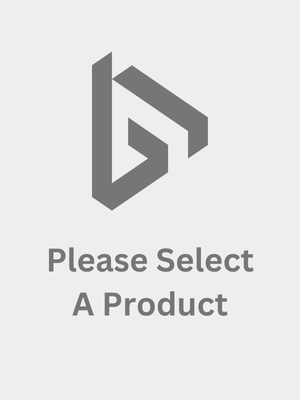
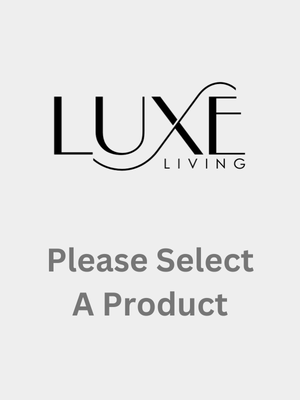
my first commit

Changed region(s): [[0.18, 0.12, 0.84, 0.54], [0.72, 0.18, 0.75, 0.21]]

diff --git a/productDetail.html b/productDetail.html
@@ -29,14 +29,8 @@
     <!----- Light Box CSS ----->
     <link rel="stylesheet" href="src/css/lightbox.min.css" />
 
-
-    
-
-
     <!-- Custom CSS -->
     <link rel="stylesheet" href="src/css/style.css" />
-
-
   </head>
 
   <body>
@@ -55,7 +49,7 @@
         <div class="container pt-2 pb-2">
           <!-- Logo -->
           <a class="navbar-brand" href="index.html"
-            ><img src="img/Logo/logo.svg" height="50" alt=""
+            ><img src="img/Logo/logo.png" height="70" alt=""
           /></a>
 
           <div class="justify-content-end d-flex">
@@ -96,7 +90,7 @@
             <div class="offcanvas-header border-bottom background-white">
               <h5 class="offcanvas-title" id="offcanvasNavbarLabel">
                 <a class="navbar-brand" href="index.html"
-                  ><img src="img/Logo/logo.svg" width="" height="70" alt=""
+                  ><img src="img/Logo/logo.png" width="" height="70" alt=""
                 /></a>
               </h5>
               <button
@@ -1040,7 +1034,6 @@
                 type="submit"
                 class="my-4 btn btn-view"
                 placeholder="submit"
-                
               />
             </form>
           </div>
@@ -1070,7 +1063,7 @@
         <div class="row">
           <div class="col-lg-3 col-sm-6 mb-5 mb-lg-0">
             <img
-              src="img/Logo/logo-white.svg"
+              src="img/Logo/logo-white.png"
               height="55px"
               alt="Durable Furniture"
               srcset=""
@@ -1177,7 +1170,7 @@
 
   <!-- Sweet Alert Js -->
   <script src="https://cdn.jsdelivr.net/npm/sweetalert2@11"></script>
- 
+
   <!----- Custom JS ----->
   <script src="src/js/Script.js"></script>
   <script src="src/js/SingleProduct.js"></script>

diff --git a/index.html b/index.html
@@ -5,11 +5,11 @@
     <meta name="viewport" content="width=device-width, initial-scale=1.0" />
     <title>Home</title>
 
-    <link
+    <!-- <link
       rel="shortcut icon"
       href="img/Logo/logo-favicon.svg"
       type="image/x-icon"
-    />
+    /> -->
 
     <!-- SwiperJS CSS  -->
     <link
@@ -48,7 +48,7 @@
         <div class="container pt-2 pb-2">
           <!-- Logo -->
           <a class="navbar-brand" href="index.html"
-            ><img src="img/Logo/logo.svg" height="50" alt=""
+            ><img src="img/Logo/logo.png" height="70"  alt=""
           /></a>
 
           <div class="justify-content-end d-flex">
@@ -89,7 +89,7 @@
             <div class="offcanvas-header border-bottom background-white">
               <h5 class="offcanvas-title" id="offcanvasNavbarLabel">
                 <a class="navbar-brand" href="index.html"
-                  ><img src="img/Logo/logo.svg" width="" height="70" alt=""
+                  ><img src="img/Logo/logo.png" width="" height="70" alt=""
                 /></a>
               </h5>
               <button
@@ -1658,7 +1658,7 @@
         <div class="row">
           <div class="col-lg-3 col-sm-6 mb-5 mb-lg-0">
             <img
-              src="img/Logo/logo-white.svg"
+              src="img/Logo/logo-white.png"
               height="55px"
               alt="Durable Furniture"
               srcset=""

diff --git a/about.html b/about.html
@@ -48,7 +48,7 @@
         <div class="container pt-2 pb-2">
           <!-- Logo -->
           <a class="navbar-brand" href="index.html"
-            ><img src="img/Logo/logo.svg" height="50" alt=""
+            ><img src="img/Logo/logo.png" height="70" alt=""
           /></a>
 
           <div class="justify-content-end d-flex">
@@ -89,7 +89,7 @@
             <div class="offcanvas-header border-bottom background-white">
               <h5 class="offcanvas-title" id="offcanvasNavbarLabel">
                 <a class="navbar-brand" href="index.html"
-                  ><img src="img/Logo/logo.svg" width="" height="70" alt=""
+                  ><img src="img/Logo/logo.png" width="" height="70" alt=""
                 /></a>
               </h5>
               <button
@@ -1328,7 +1328,7 @@
         <div class="row">
           <div class="col-lg-3 col-sm-6 mb-5 mb-lg-0">
             <img
-              src="img/Logo/logo-white.svg"
+              src="img/Logo/logo-white.png"
               height="55px"
               alt="Durable Furniture"
               srcset=""

diff --git a/compare.html b/compare.html
@@ -42,7 +42,7 @@
         <div class="container pt-2 pb-2">
           <!-- Logo -->
           <a class="navbar-brand" href="index.html"
-            ><img src="img/Logo/logo.svg" height="50" alt=""
+            ><img src="img/Logo/logo.png" height="70" alt=""
           /></a>
 
           <div class="justify-content-end d-flex">
@@ -83,7 +83,7 @@
             <div class="offcanvas-header border-bottom background-white">
               <h5 class="offcanvas-title" id="offcanvasNavbarLabel">
                 <a class="navbar-brand" href="index.html"
-                  ><img src="img/Logo/logo.svg" width="" height="70" alt=""
+                  ><img src="img/Logo/logo.png" width="" height="70" alt=""
                 /></a>
               </h5>
               <button
@@ -1018,7 +1018,7 @@
         <div class="row">
           <div class="col-lg-3 col-sm-6 mb-5 mb-lg-0">
             <img
-              src="img/Logo/logo-white.svg"
+              src="img/Logo/logo-white.png"
               height="55px"
               alt="Durable Furniture"
               srcset=""

diff --git a/contact.html b/contact.html
@@ -39,7 +39,7 @@
         <div class="container pt-2 pb-2">
           <!-- Logo -->
           <a class="navbar-brand" href="index.html"
-            ><img src="img/Logo/logo.svg" height="50" alt=""
+            ><img src="img/Logo/logo.png" height="70" alt=""
           /></a>
 
           <div class="justify-content-end d-flex">
@@ -80,7 +80,7 @@
             <div class="offcanvas-header border-bottom background-white">
               <h5 class="offcanvas-title" id="offcanvasNavbarLabel">
                 <a class="navbar-brand" href="index.html"
-                  ><img src="img/Logo/logo.svg" width="" height="70" alt=""
+                  ><img src="img/Logo/logo.png" width="" height="70" alt=""
                 /></a>
               </h5>
               <button
@@ -1048,7 +1048,7 @@
         <div class="row">
           <div class="col-lg-3 col-sm-6 mb-5 mb-lg-0">
             <img
-              src="img/Logo/logo-white.svg"
+              src="img/Logo/logo-white.png"
               height="55px"
               alt="Durable Furniture"
               srcset=""

diff --git a/shop.html b/shop.html
@@ -43,7 +43,7 @@
         <div class="container pt-2 pb-2">
           <!-- Logo -->
           <a class="navbar-brand" href="index.html"
-            ><img src="img/Logo/logo.svg" height="50" alt=""
+            ><img src="img/Logo/logo.png" height="70" alt=""
           /></a>
 
           <div class="justify-content-end d-flex">
@@ -84,7 +84,7 @@
             <div class="offcanvas-header border-bottom background-white">
               <h5 class="offcanvas-title" id="offcanvasNavbarLabel">
                 <a class="navbar-brand" href="index.html"
-                  ><img src="img/Logo/logo.svg" width="" height="70" alt=""
+                  ><img src="img/Logo/logo.png" width="" height="70" alt=""
                 /></a>
               </h5>
               <button
@@ -1031,7 +1031,7 @@
         <div class="row">
           <div class="col-lg-3 col-sm-6 mb-5 mb-lg-0">
             <img
-              src="img/Logo/logo-white.svg"
+              src="img/Logo/logo-white.png"
               height="55px"
               alt="Durable Furniture"
               srcset=""

diff --git a/brands.html b/brands.html
@@ -42,7 +42,7 @@
         <div class="container pt-2 pb-2">
           <!-- Logo -->
           <a class="navbar-brand" href="index.html"
-            ><img src="img/Logo/logo.svg" height="50" alt=""
+            ><img src="img/Logo/logo.png" height="70" alt=""
           /></a>
 
           <div class="justify-content-end d-flex">
@@ -83,7 +83,7 @@
             <div class="offcanvas-header border-bottom background-white">
               <h5 class="offcanvas-title" id="offcanvasNavbarLabel">
                 <a class="navbar-brand" href="index.html"
-                  ><img src="img/Logo/logo.svg" width="" height="70" alt=""
+                  ><img src="img/Logo/logo.png" width="" height="70" alt=""
                 /></a>
               </h5>
               <button
@@ -973,7 +973,7 @@
         <div class="row">
           <div class="col-lg-3 col-sm-6 mb-5 mb-lg-0">
             <img
-              src="img/Logo/logo-white.svg"
+              src="img/Logo/logo-white.png"
               height="55px"
               alt="Durable Furniture"
               srcset=""

diff --git a/category.html b/category.html
@@ -42,7 +42,7 @@
         <div class="container pt-2 pb-2">
           <!-- Logo -->
           <a class="navbar-brand" href="index.html"
-            ><img src="img/Logo/logo.svg" height="50" alt=""
+            ><img src="img/Logo/logo.png" height="70" alt=""
           /></a>
 
           <div class="justify-content-end d-flex">
@@ -83,7 +83,7 @@
             <div class="offcanvas-header border-bottom background-white">
               <h5 class="offcanvas-title" id="offcanvasNavbarLabel">
                 <a class="navbar-brand" href="index.html"
-                  ><img src="img/Logo/logo.svg" width="" height="70" alt=""
+                  ><img src="img/Logo/logo.png" width="" height="70" alt=""
                 /></a>
               </h5>
               <button
@@ -977,7 +977,7 @@
         <div class="row">
           <div class="col-lg-3 col-sm-6 mb-5 mb-lg-0">
             <img
-              src="img/Logo/logo-white.svg"
+              src="img/Logo/logo-white.png"
               height="55px"
               alt="Durable Furniture"
               srcset=""
